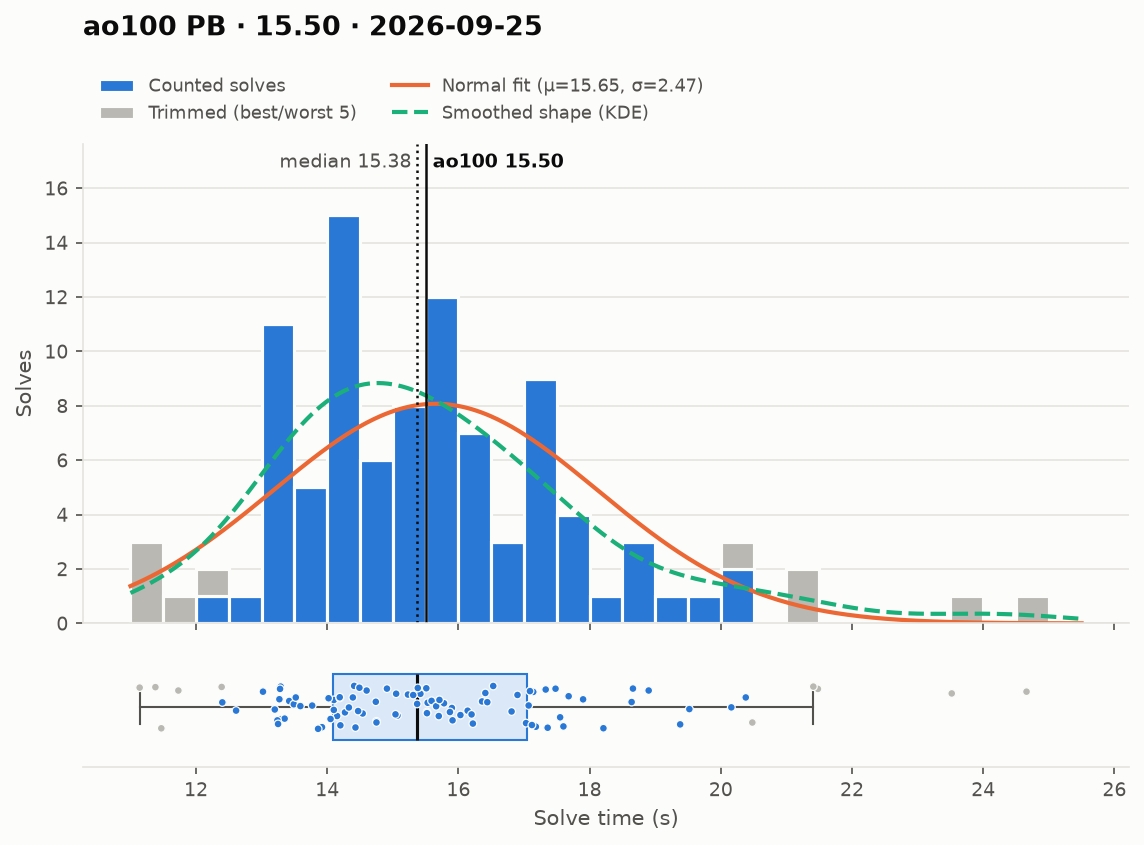
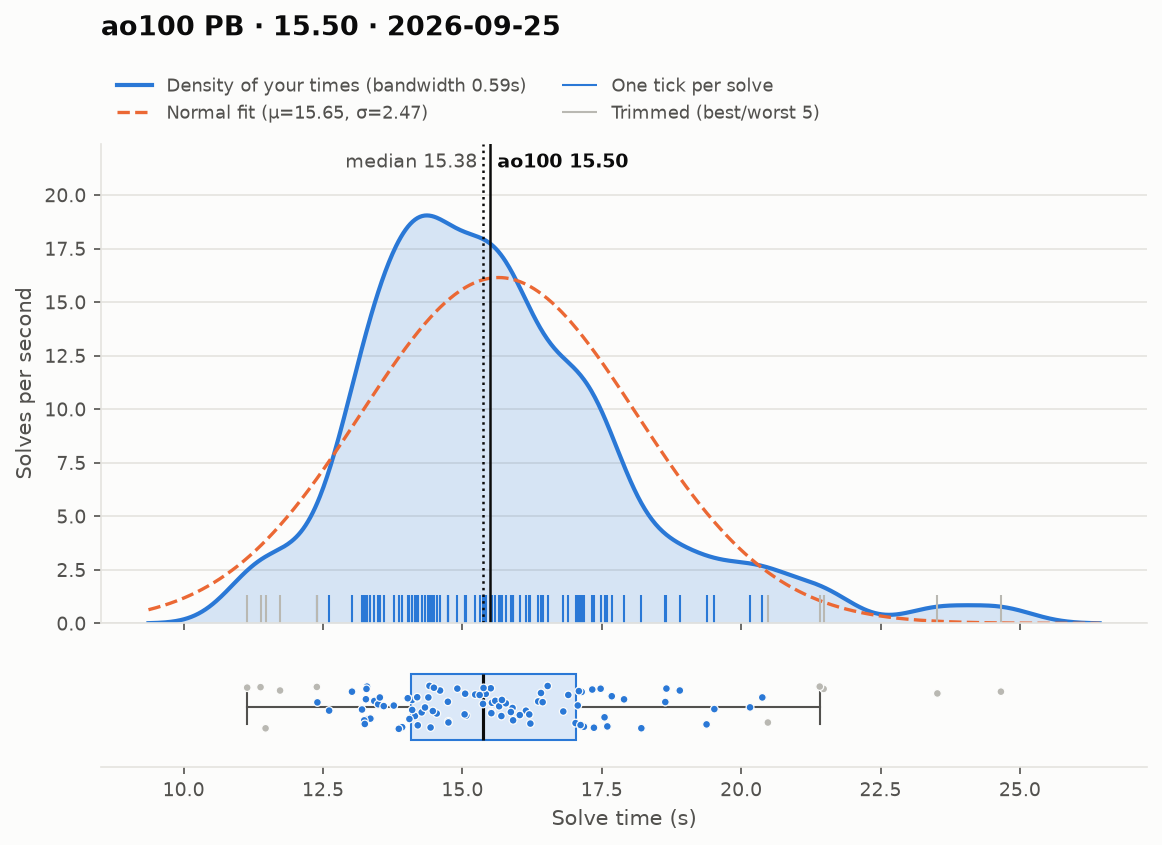
Show distributions as continuous density + per-solve rug instead of histogram bars

diff --git a/scripts/build.py b/scripts/build.py
@@ -214,10 +214,6 @@ def plot_distribution(event, day, times, trimmed, avg, st, out):
     allt = np.array(counted + cut)
 
     n = len(times)
-    width = 0.25 if n <= 5 else 0.5
-    lo = math.floor(allt.min() / width) * width
-    hi = math.ceil(allt.max() / width) * width + width
-    bins = np.arange(lo, hi + 1e-9, width)
 
     fig, (ax, axb) = plt.subplots(
         2, 1, figsize=(9, 5.4), sharex=True,
@@ -225,18 +221,29 @@ def plot_distribution(event, day, times, trimmed, avg, st, out):
     )
     fig.patch.set_facecolor(SURFACE)
     style_axes(ax)
-    ax.hist([counted, cut], bins=bins, stacked=True, color=[COUNTED, TRIMMED],
-            edgecolor=SURFACE, linewidth=1.5,
-            label=["Counted solves", f"Trimmed (best/worst {trim_count(n)})"])
 
-    xs = np.linspace(lo, hi, 400)
-    scale = len(allt) * width  # density -> count per bin
-    ax.plot(xs, sps.norm.pdf(xs, st["mean"], st["std"]) * scale,
-            color=FIT, linewidth=2, label=f"Normal fit (μ={st['mean']:.2f}, σ={st['std']:.2f})")
-    if len(allt) >= 12:
-        kde = sps.gaussian_kde(allt)
-        ax.plot(xs, kde(xs) * scale, color=ACCENT, linewidth=2, linestyle="--",
-                label="Smoothed shape (KDE)")
+    # Continuous estimate of the distribution: a Gaussian KDE, scaled so the
+    # y-axis reads as "solves per second of time" (area under the curve = n).
+    # Bandwidth is 0.6x Scott's rule so real clusters aren't smoothed away.
+    kde = sps.gaussian_kde(allt)
+    kde.set_bandwidth(kde.factor * 0.6)
+    bw = kde.factor * allt.std(ddof=1)
+    lo, hi = allt.min() - 3 * bw, allt.max() + 3 * bw  # room for the full tails
+    xs = np.linspace(lo, hi, 800)
+    dens = kde(xs) * len(allt)
+    ax.fill_between(xs, dens, color=COUNTED, alpha=0.18, linewidth=0)
+    ax.plot(xs, dens, color=COUNTED, linewidth=2,
+            label=f"Density of your times (bandwidth {bw:.2f}s)")
+    ax.plot(xs, sps.norm.pdf(xs, st["mean"], st["std"]) * len(allt), color=FIT,
+            linewidth=1.6, linestyle="--",
+            label=f"Normal fit (μ={st['mean']:.2f}, σ={st['std']:.2f})")
+
+    # Rug: one thin tick per solve at its exact time.
+    rug_h = dens.max() * 0.07
+    ax.vlines(counted, 0, rug_h, color=COUNTED, linewidth=1, label="One tick per solve")
+    ax.vlines(cut, 0, rug_h, color=TRIMMED, linewidth=1,
+              label=f"Trimmed (best/worst {trim_count(n)})")
+    ax.set_ylim(bottom=0)
 
     ax.axvline(avg, color=INK, linewidth=1.2)
     ax.axvline(st["median"], color=INK, linewidth=1.2, linestyle=":")
@@ -250,8 +257,7 @@ def plot_distribution(event, day, times, trimmed, avg, st, out):
     ax.text(st["median"], ymax * 0.98, f" median {fmt(st['median'])} ", color=INK_2,
             fontsize=9, va="top", ha="right" if avg_right else "left")
 
-    ax.set_ylabel("Solves", color=INK_2)
-    ax.yaxis.get_major_locator().set_params(integer=True)
+    ax.set_ylabel("Solves per second", color=INK_2)
     ax.set_title(f"{event} PB · {fmt(avg)} · {day}", loc="left", color=INK,
                  fontsize=13, fontweight="bold", pad=52)
     ax.legend(frameon=False, fontsize=8.5, labelcolor=INK_2, loc="lower left",
